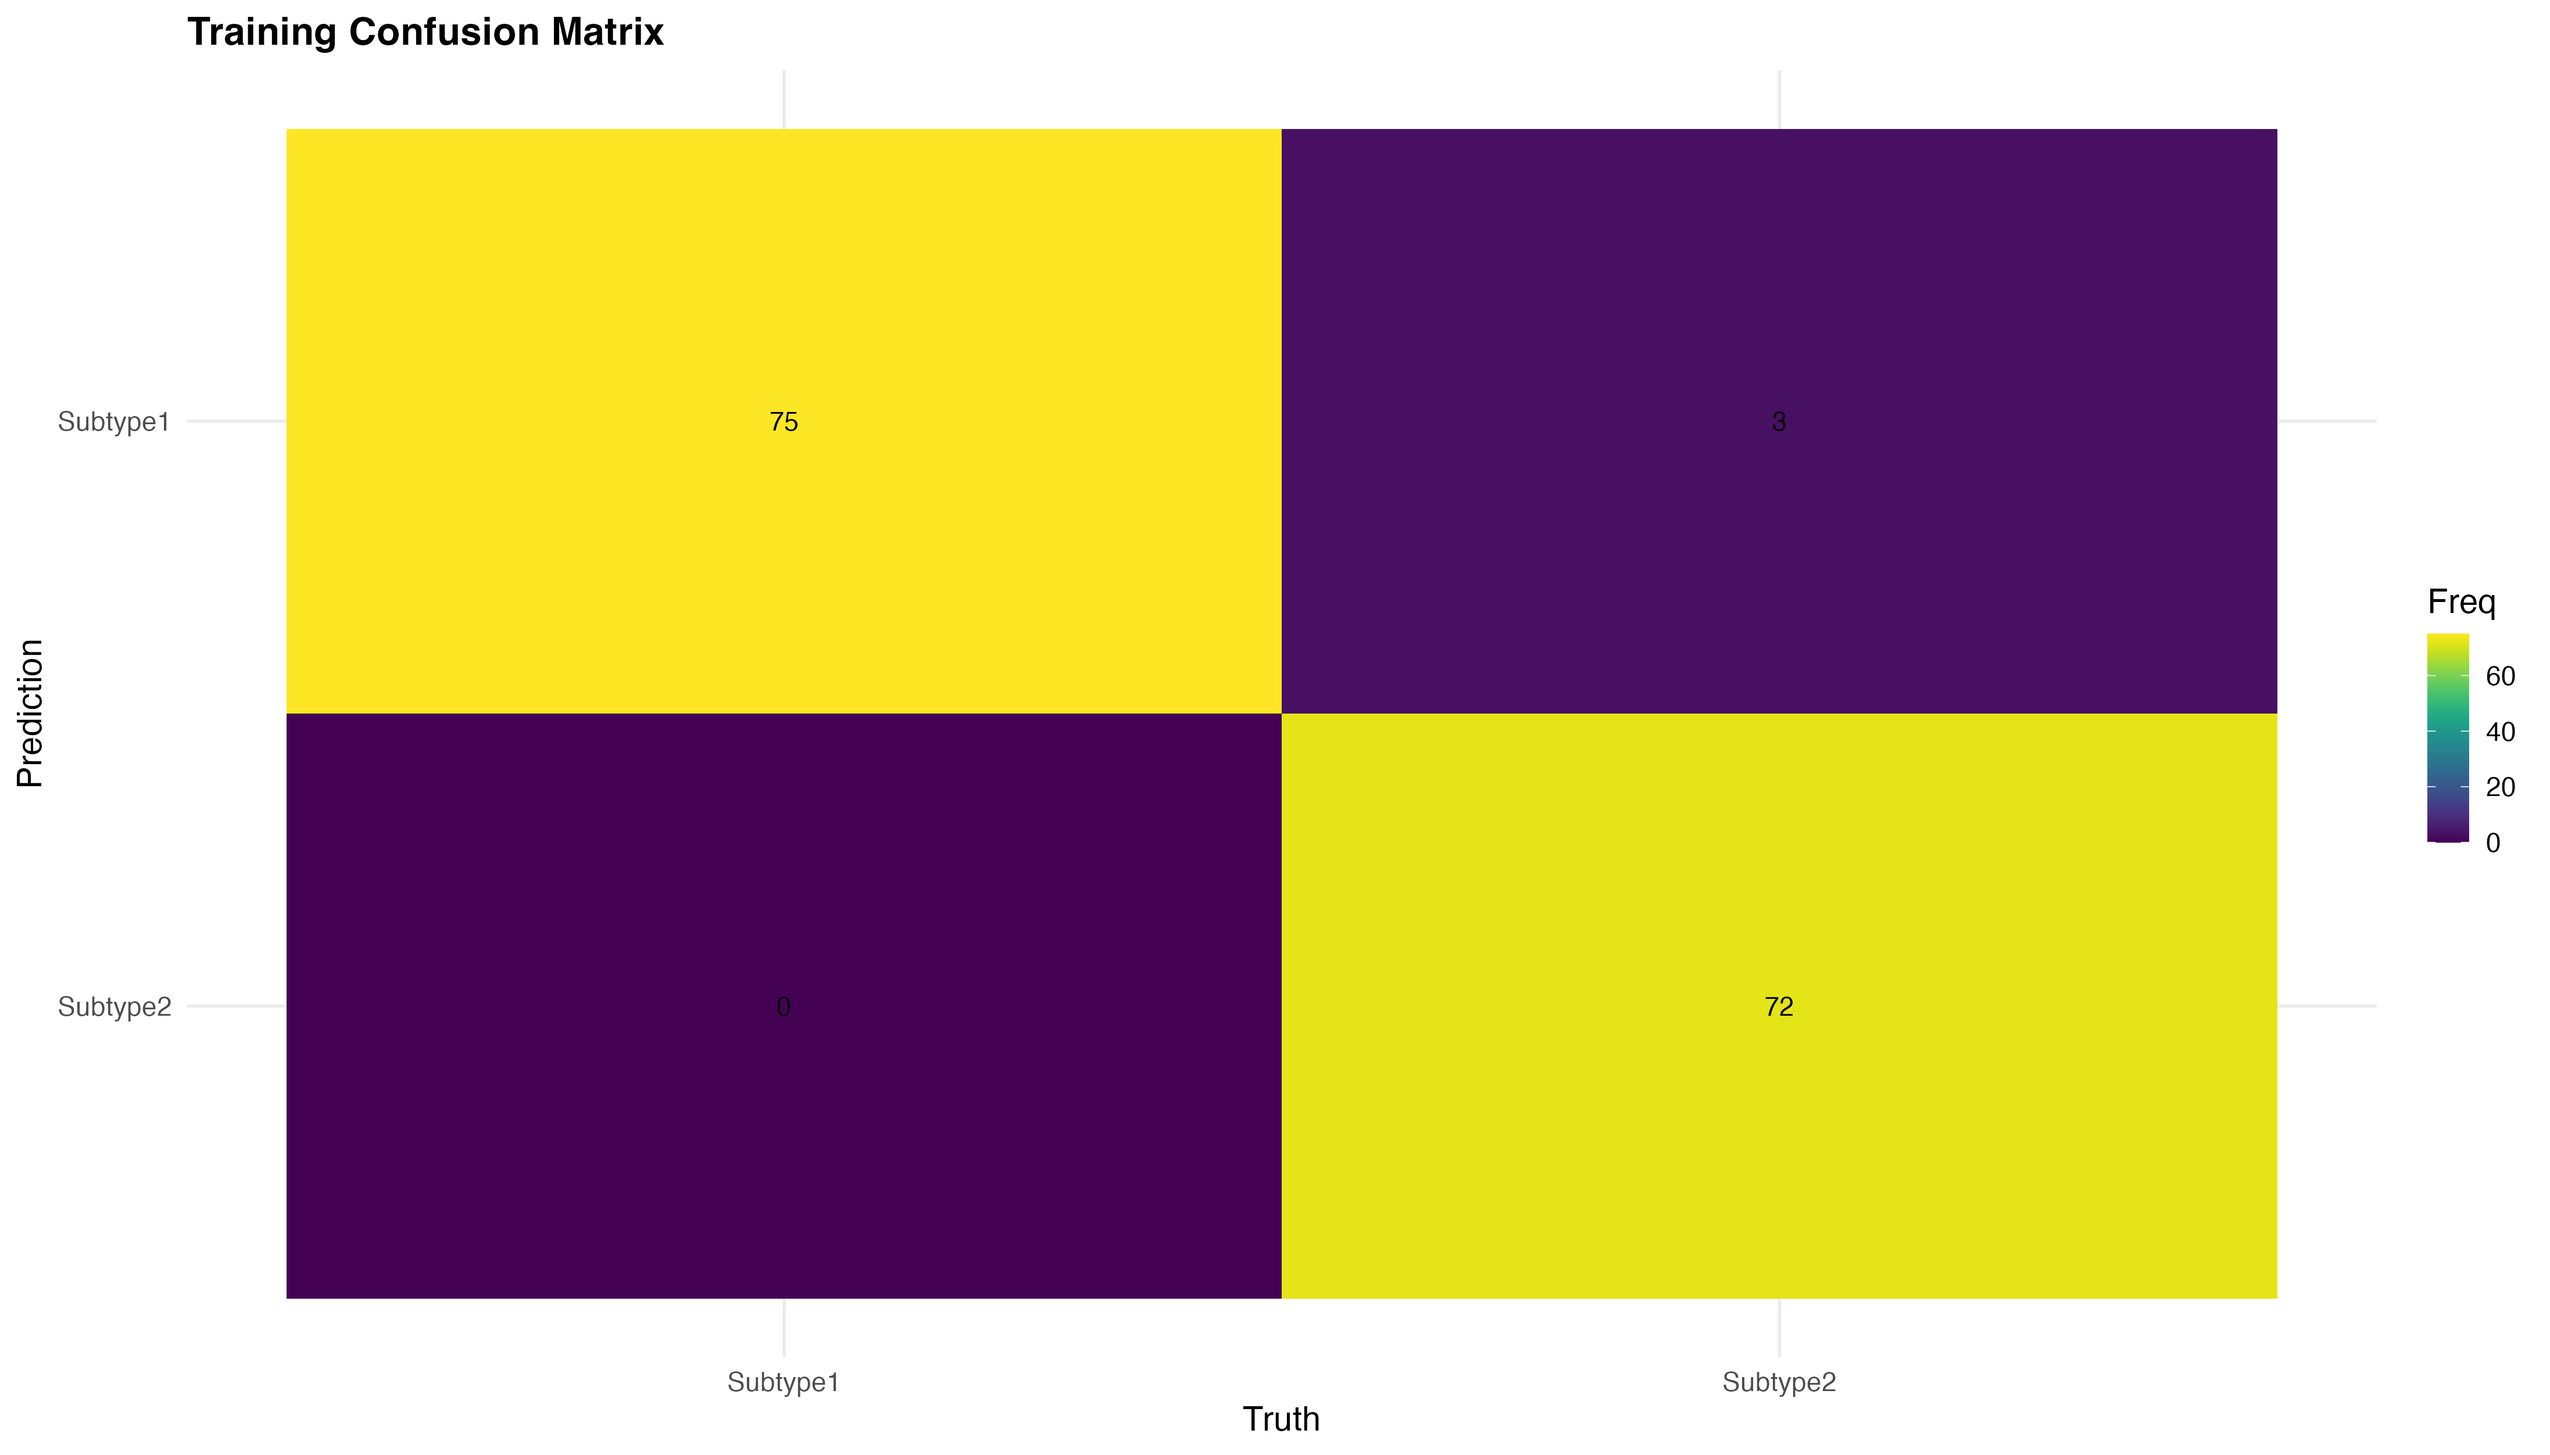
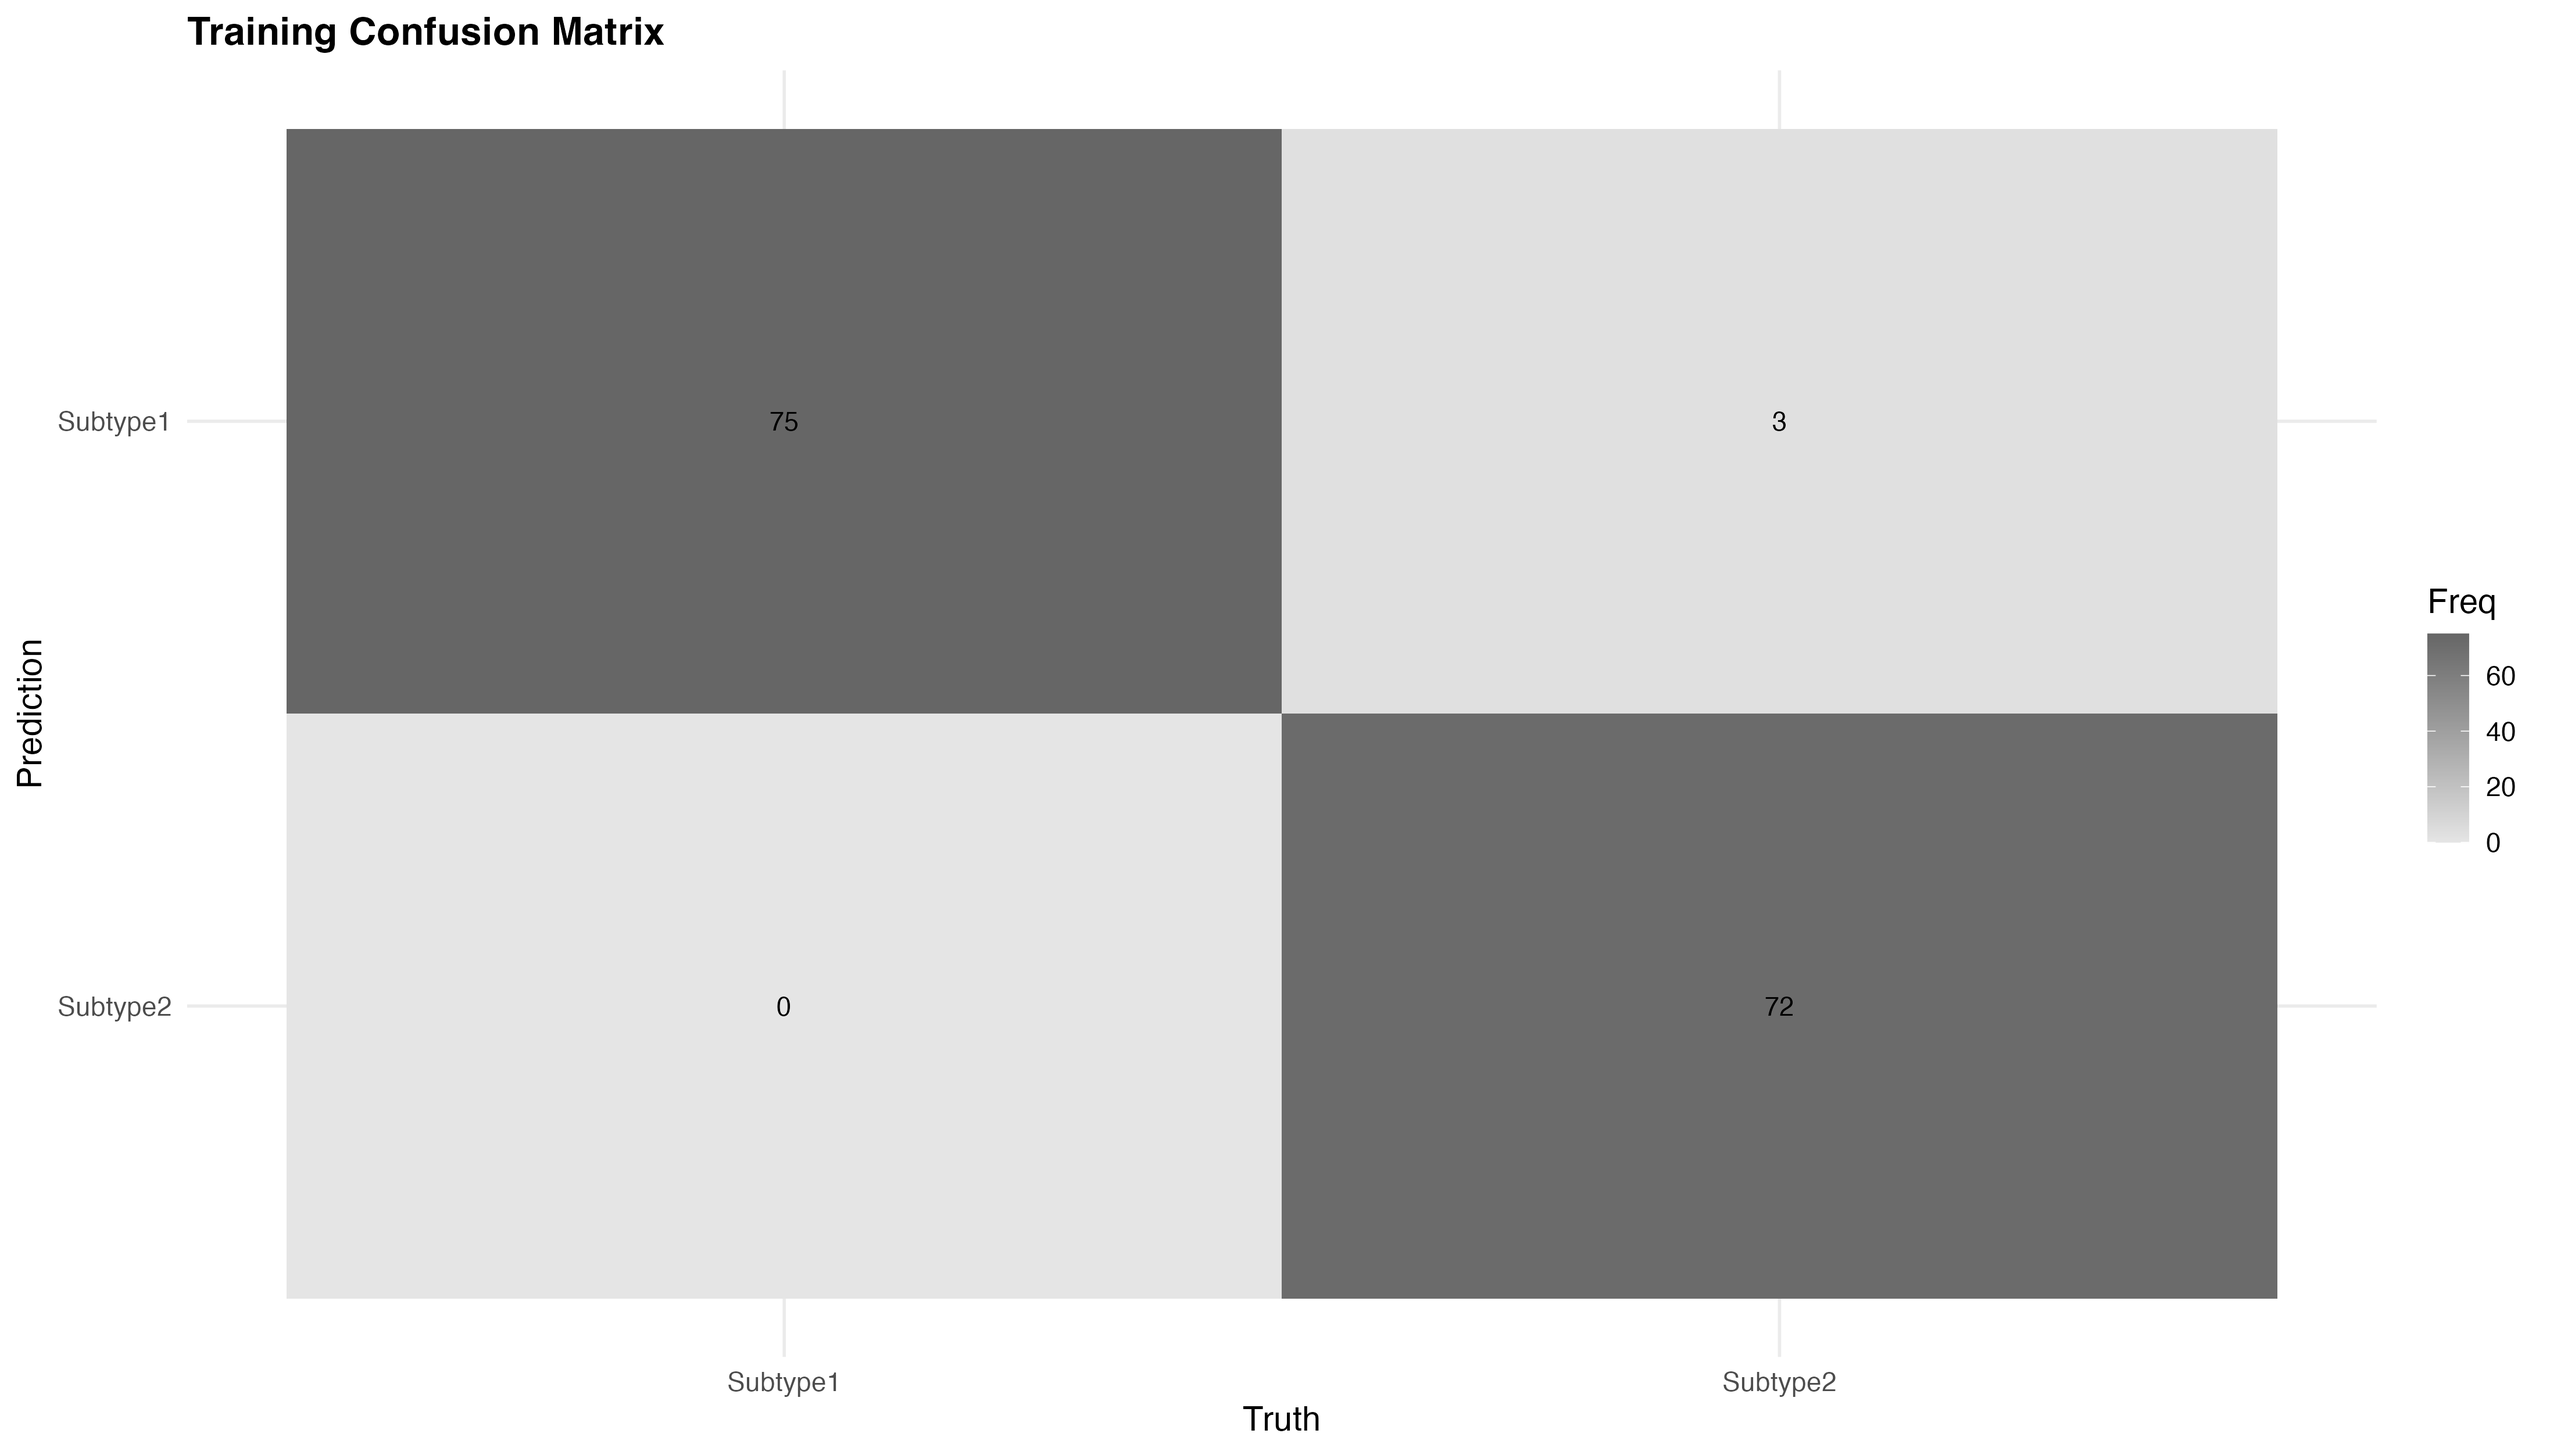
updated figire colors

diff --git a/README.md b/README.md
@@ -4,7 +4,7 @@ A repository that introduces concepts of machine learning for bioinformatics in 
 
 ## Table of Contents
 
-- 01-Decision-Tree
+- [01-Decision-Tree](summaries/01-Decision-Tree.md)
 
 
 ## Author
